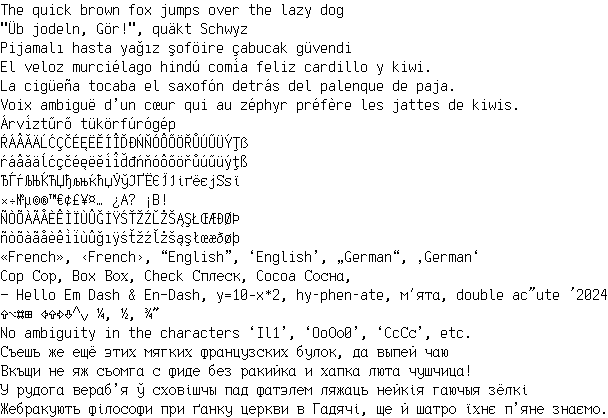
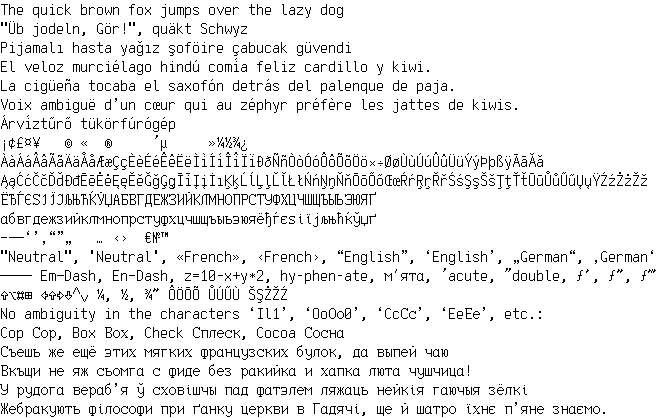
New codepoints

Changed region(s): [[0.0, 0.0, 1.0, 1.0], [0.875, 0.5909, 1.0, 0.6842], [0.9375, 0.6842, 1.0, 0.7153]]

diff --git a/export.js b/export.js
@@ -106,19 +106,21 @@ writeFileSync('./Example.png', getImage([
     'La cigüeña tocaba el saxofón detrás del palenque de paja.',
     'Voix ambiguë d’un cœur qui au zéphyr préfère les jattes de kiwis.',
     'Árvíztűrő tükörfúrógép',
-    'ŔÁÂĂÄĹĆÇČÉĘËĚÍÎĎĐŃŇÓÔŐÖŘŮÚŰÜÝŢẞ',
-    'ŕáâăäĺćçčéęëěíîďđńňóôőöřůúűüýţß',
-    'ЂЃѓЉЊЌЋЏђљњќћџЎўЈҐЁЄЇІіґёєјЅѕї',
-    '×÷№µ©®™€¢£¥¤… ¿A? ¡B!',
-    'ÑÒÕÀÃÅÈÊÌÏÙÛĞİŸŚŤŽŹĽŻŠĄŞŁŒÆÐØÞ',
-    'ñòõàãåèêìïùûğıÿśťžźľżšąşłœæðøþ',
-    '«French», ‹French›, “English”, ‘English’, „German“, ‚German‘',
-    'Cop Сор, Box Вох, Check Сплеск, Cocoa Сосна,',
-    '— Hello Em Dash & En–Dash, y=10-x*2, hy‐phen‐ate, мʼята, double ac˝ute ´2024',
-    '⇧⌥⌘⊞ ⇦⇧⇨⇩⌃⌄ ¼, ½, ¾″',
+    '¡¢£¤¥¦§¨©ª«¬®¯°±²³´µ¶·¸¹º»¼½¾¿',
+    'ÀàÁáÂâÃãÄäÅåÆæÇçÈèÉéÊêËëÌìÍíÎîÏïÐðÑñÒòÓóÔôÕõÖö×÷ØøÙùÚúÛûÜüÝýÞþßÿĀāĂă',
+    'ĄąĆćČčĎďĐđĒēĖėĘęĚěĞğĢģĪīĮįİıĶķĹĺĻļĽľŁłŃńŅņŇňŌōŐőŒœŔŕŖŗŘřŚśŞşŠšŢţŤťŪūŮůŰűŲųŸŹźŻżŽž',
     // TODO:
-    //'†‡‰•ˇ˘¦§¨¬°±˛¶·¸˙ƒˆ˜ª¯º',
-    'No ambiguity in the characters ‘Il1’, ‘OoОо0’, ‘CcСс’, etc.',
+    // 'ƒƠơƯư ˆˇ˘˙˚˛˜˝̣̀́̃̉΄΅·',
+    //'Ά·ΈΉΊΌΎΏΐΑΒΓΔΕΖΗΘΙΚΛΜΝΞΟΠΡΣΤΥΦΧΨΩΪΫάέήίΰαβγδεζηθικλμνξοπρςστυφχψωϊϋόύώ',
+    //'¦§¨ª¬¯°±²³¶·¸¹º†‡•‰⁄₫Ω∂∆∏∑√∞∫≈≠≤≥◊ﬁﬂӘәҖҗҢңӨөҮүҺһ',
+    'ЁЂЃЄЅІЇЈЉЊЋЌЎЏАБВГДЕЖЗИЙКЛМНОПРСТУФХЦЧШЩЪЫЬЭЮЯҐ',
+    'абвгдежзийклмнопрстуфхцчшщъыьэюяёђѓєѕіїјљњћќўџґ',
+    '–—―‘’‚“”„†‡•…‰‹›⁄₫€№™Ω∂∆∏∑√∞∫≈≠≤≥◊ﬁﬂ',
+    '"Neutral", \'Neutral\', «French», ‹French›, “English”, ‘English’, „German“, ‚German‘',
+    '―――― Em—Dash, En–Dash, z=10-x+y*2, hy‐phen‐ate, мʼята, ´acute, ˝double, ƒ′, ƒ″, ƒ‴',
+    '⇧⌥⌘⊞ ⇦⇧⇨⇩⌃⌄ ¼, ½, ¾″ ÔÖŌÕ ŮÚŰÙ ŠŞŻŽŹ',
+    'No ambiguity in the characters ‘Il1’, ‘OoОо0’, ‘CcСс’, ‘EeЕе’, etc.:',
+    'Cop Сор, Box Вох, Check Сплеск, Cocoa Сосна',
     'Съешь же ещё этих мягких французских булок, да выпей чаю',
     'Вкъщи не яж сьомга с фиде без ракийка и хапка люта чушчица!',
     'У рудога вераб’я ў сховішчы пад фатэлем ляжаць нейкія гаючыя зёлкі',
